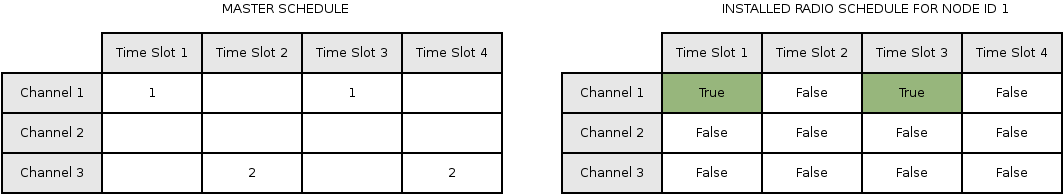
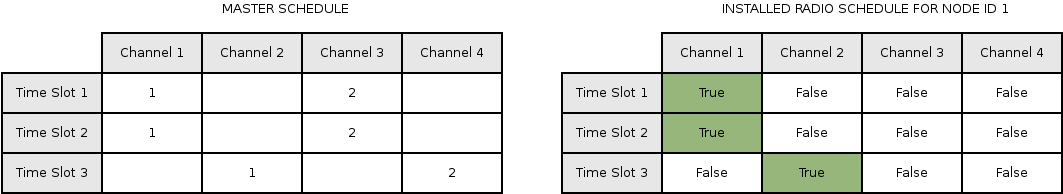
Fix scheduling image again

diff --git a/test_radio.py b/test_radio.py
@@ -66,6 +66,14 @@ def main():
 	radio = dragon.radio.Radio(config)
 
 	# Configure MAC objects
+	# The schedule will be nchannels x nslots, so each row represents
+	# the schedule for a channel, and each column represents the time slots.
+	# Ex. For 10 channels, 3 nodes, 4 time slots
+	#        channels ->
+	#  time  [1,,,2,,,3,,,]
+	#  slots [1,,,2,,,3,,,]
+	#    |   [1,,,2,,,3,,,]
+	#    V   [1,,,2,,,3,,,]
 	nslots = 10
 	nchannels = len(radio.channels)
 	sched = np.array([1,2,3,1,2,3,1,2,3,1]) # nchannels x nslots array
